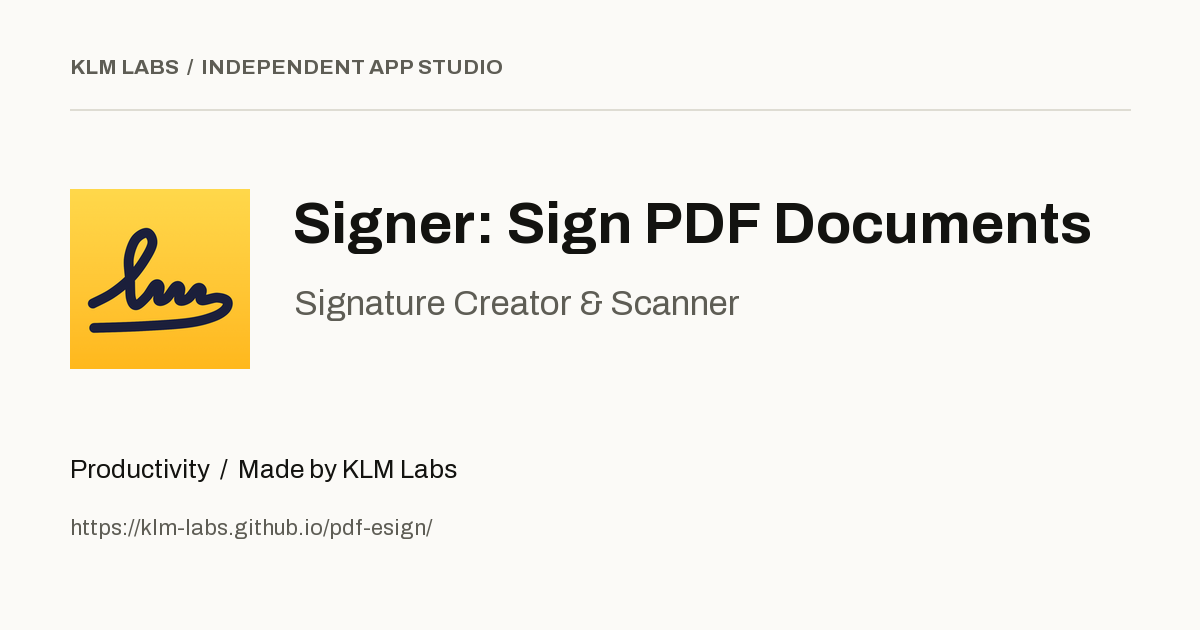
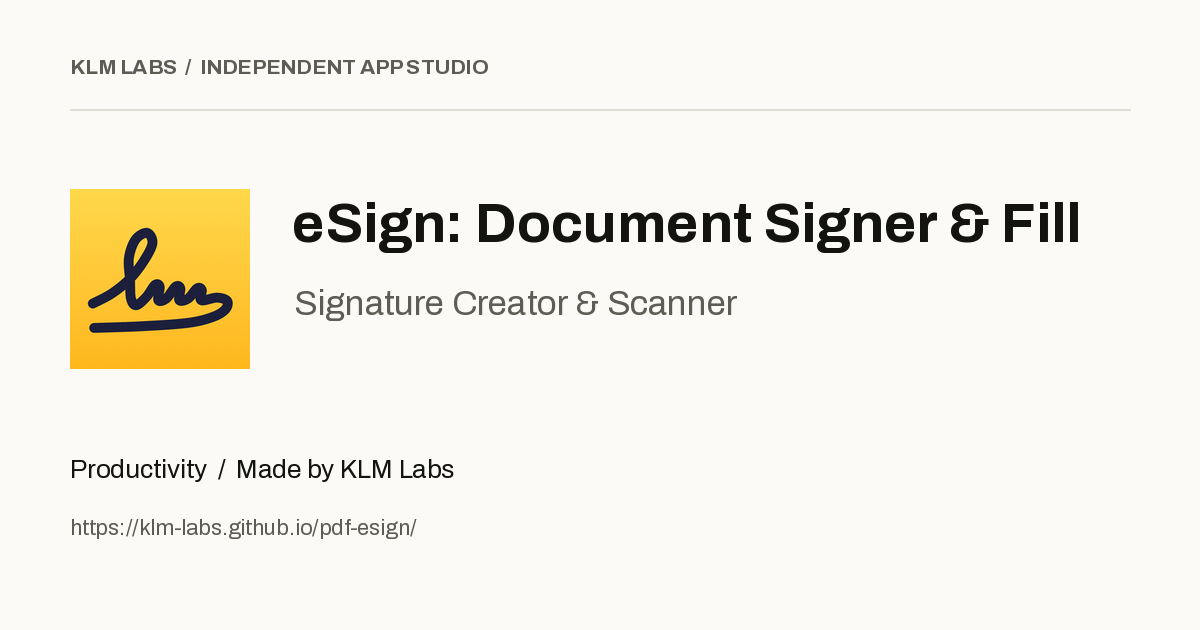
Signer: store name is now "eSign: Document Signer & Fill" (App Store 1.1.0, 2026-10-28)
Sources (data/apps/pdf-esign.json, content/pdf-esign/*.md) renamed, pages and social image rebuilt
with scripts/build.py; check.py PASS. Routes unchanged.

Claude-Session: https://claude.ai/code/session_01Sj7raKZCJBL7sNVHsKc3wx

diff --git a/pdf-esign/privacy/index.html b/pdf-esign/privacy/index.html
@@ -4,26 +4,26 @@
 <head>
   <meta charset="utf-8">
   <meta name="viewport" content="width=device-width, initial-scale=1">
-  <title>Signer: Sign PDF Documents — Privacy policy | KLM Labs</title>
-  <meta name="description" content="Signer: Sign PDF Documents: What stays on your device, what is collected, and how to get in touch.">
+  <title>eSign: Document Signer &amp; Fill — Privacy policy | KLM Labs</title>
+  <meta name="description" content="eSign: Document Signer &amp; Fill: What stays on your device, what is collected, and how to get in touch.">
   <meta name="theme-color" content="#fbfaf7">
   <link rel="canonical" href="https://klm-labs.github.io/pdf-esign/privacy/">
   <link rel="icon" href="/pdf-esign/favicon.png" type="image/png">
   <link rel="apple-touch-icon" href="/pdf-esign/icon.png">
   <meta property="og:type" content="website">
   <meta property="og:site_name" content="KLM Labs">
-  <meta property="og:title" content="Signer: Sign PDF Documents — Privacy policy | KLM Labs">
-  <meta property="og:description" content="Signer: Sign PDF Documents: What stays on your device, what is collected, and how to get in touch.">
+  <meta property="og:title" content="eSign: Document Signer &amp; Fill — Privacy policy | KLM Labs">
+  <meta property="og:description" content="eSign: Document Signer &amp; Fill: What stays on your device, what is collected, and how to get in touch.">
   <meta property="og:url" content="https://klm-labs.github.io/pdf-esign/privacy/">
   <meta property="og:image" content="https://klm-labs.github.io/pdf-esign/social.png">
   <meta property="og:image:width" content="1200">
   <meta property="og:image:height" content="630">
-  <meta property="og:image:alt" content="Signer: Sign PDF Documents — Signature Creator &amp; Scanner">
+  <meta property="og:image:alt" content="eSign: Document Signer &amp; Fill — Signature Creator &amp; Scanner">
   <meta name="twitter:card" content="summary_large_image">
-  <meta name="twitter:title" content="Signer: Sign PDF Documents — Privacy policy | KLM Labs">
-  <meta name="twitter:description" content="Signer: Sign PDF Documents: What stays on your device, what is collected, and how to get in touch.">
+  <meta name="twitter:title" content="eSign: Document Signer &amp; Fill — Privacy policy | KLM Labs">
+  <meta name="twitter:description" content="eSign: Document Signer &amp; Fill: What stays on your device, what is collected, and how to get in touch.">
   <meta name="twitter:image" content="https://klm-labs.github.io/pdf-esign/social.png">
-  <meta name="twitter:image:alt" content="Signer: Sign PDF Documents — Signature Creator &amp; Scanner">
+  <meta name="twitter:image:alt" content="eSign: Document Signer &amp; Fill — Signature Creator &amp; Scanner">
   <link rel="preload" href="/assets/fonts/archivo-regular.woff2" as="font" type="font/woff2" crossorigin>
   <link rel="stylesheet" href="/assets/site.css?v=3e96cfd2f7">
   <script src="/assets/site.js?v=3771640155" defer></script>
@@ -38,12 +38,12 @@
     </div>
   </header>
   <main id="main" class="container document-page">
-  <nav class="breadcrumb" aria-label="Breadcrumb"><a href="/">Our apps</a><span aria-hidden="true">/</span><a href="/pdf-esign/">Signer: Sign PDF Documents</a><span aria-hidden="true">/</span><span>Privacy policy</span></nav>
+  <nav class="breadcrumb" aria-label="Breadcrumb"><a href="/">Our apps</a><span aria-hidden="true">/</span><a href="/pdf-esign/">eSign: Document Signer &amp; Fill</a><span aria-hidden="true">/</span><span>Privacy policy</span></nav>
   <div class="document-grid">
-    <aside class="document-sidebar" aria-label="App resources"><a class="document-app" href="/pdf-esign/"><img src="/pdf-esign/icon.png" alt="" width="48" height="48"><span>Signer: Sign PDF Documents<small>by KLM Labs</small></span></a><nav aria-label="App resources"><a href="/pdf-esign/privacy/" aria-current="page">Privacy policy</a><a href="/pdf-esign/terms/">Terms of use</a><a href="/pdf-esign/support/">App support</a></nav><a class="text-link back-to-app" href="/pdf-esign/"><svg class="icon" width="24" height="24" viewBox="0 0 24 24" fill="none" stroke="currentColor" stroke-width="1.5" stroke-linecap="round" stroke-linejoin="round" aria-hidden="true"><path d="M20 12H4m6-6-6 6 6 6"/></svg> Back to the app</a></aside>
-    <article class="document-content"><header class="document-header"><p class="eyebrow">Signer: Sign PDF Documents</p><h1>Privacy policy</h1><p class="document-deck">What stays on your device, what is collected, and how to get in touch.</p></header><div class="prose"><p><strong>Effective date:</strong> 2026-10-21</p>
+    <aside class="document-sidebar" aria-label="App resources"><a class="document-app" href="/pdf-esign/"><img src="/pdf-esign/icon.png" alt="" width="48" height="48"><span>eSign: Document Signer &amp; Fill<small>by KLM Labs</small></span></a><nav aria-label="App resources"><a href="/pdf-esign/privacy/" aria-current="page">Privacy policy</a><a href="/pdf-esign/terms/">Terms of use</a><a href="/pdf-esign/support/">App support</a></nav><a class="text-link back-to-app" href="/pdf-esign/"><svg class="icon" width="24" height="24" viewBox="0 0 24 24" fill="none" stroke="currentColor" stroke-width="1.5" stroke-linecap="round" stroke-linejoin="round" aria-hidden="true"><path d="M20 12H4m6-6-6 6 6 6"/></svg> Back to the app</a></aside>
+    <article class="document-content"><header class="document-header"><p class="eyebrow">eSign: Document Signer &amp; Fill</p><h1>Privacy policy</h1><p class="document-deck">What stays on your device, what is collected, and how to get in touch.</p></header><div class="prose"><p><strong>Effective date:</strong> 2026-10-21</p>
 <p><strong>Contact:</strong> <a href="mailto:klm.labs.inc@gmail.com">klm.labs.inc@gmail.com</a></p>
-<p>Signer: Sign PDF Documents is made by KLM Labs. On your Home Screen it appears as <strong>Signer</strong>. It lets you sign, fill and stamp PDFs and scanned pages on your iPhone or iPad. This policy explains what stays on your device, what leaves it, who receives it and why.</p>
+<p>eSign: Document Signer &amp; Fill is made by KLM Labs. On your Home Screen it appears as <strong>Signer</strong>. It lets you sign, fill and stamp PDFs and scanned pages on your iPhone or iPad. This policy explains what stays on your device, what leaves it, who receives it and why.</p>
 <h2 id="the-short-version">The short version</h2>
 <ul><li><strong>Your documents are stored on your device.</strong> PDFs, scans, photos you import, your signatures and initials, and the text, dates and stamps you add are stored on your device. The app never uploads them to us or to anyone else, and screen recordings hide them (see below).</li><li><strong>There is no account and no sign-up.</strong> The app never asks for your name or email address. Your usage and purchase records are kept together by random identifiers, so they are linked to you (see below).</li><li><strong>Usage analytics with a random identifier.</strong> The App Store version sends usage events, such as &quot;a document was added&quot;, to PostHog, together with technical details about the app and device. An approximate location (country and city) is worked out from your internet address, which PostHog does not store. No event ever includes a document, file name, signature or text you type.</li><li><strong>Masked screen recordings, from version 1.1.0.</strong> The App Store version also records the app&#x27;s screens as you use them and where your touches start and end. Recordings are made only on iOS and iPadOS 26 or newer; on an older version the app records nothing. By design, all text, pages, signatures, initials, stamps and photos are covered by solid blocks on your iPhone or iPad before a recording is sent (our test recordings show this; see below), and recording pauses while Photos, Files, the share sheet or a touch-and-hold menu is open (see below).</li><li><strong>Purchases are handled by Apple.</strong> We never see your card or bank details. RevenueCat receives your App Store purchase records so the app can unlock and restore Signer Pro.</li><li><strong>No ads and no tracking.</strong> We do not sell data, show adverts, use an advertising identifier, or track you across other apps and websites.</li></ul>
 <h2 id="what-is-stored-on-your-device">What is stored on your device</h2>

diff --git a/pdf-esign/terms/index.html b/pdf-esign/terms/index.html
@@ -4,26 +4,26 @@
 <head>
   <meta charset="utf-8">
   <meta name="viewport" content="width=device-width, initial-scale=1">
-  <title>Signer: Sign PDF Documents — Terms of use | KLM Labs</title>
-  <meta name="description" content="Signer: Sign PDF Documents: The terms that apply when you use the app.">
+  <title>eSign: Document Signer &amp; Fill — Terms of use | KLM Labs</title>
+  <meta name="description" content="eSign: Document Signer &amp; Fill: The terms that apply when you use the app.">
   <meta name="theme-color" content="#fbfaf7">
   <link rel="canonical" href="https://klm-labs.github.io/pdf-esign/terms/">
   <link rel="icon" href="/pdf-esign/favicon.png" type="image/png">
   <link rel="apple-touch-icon" href="/pdf-esign/icon.png">
   <meta property="og:type" content="website">
   <meta property="og:site_name" content="KLM Labs">
-  <meta property="og:title" content="Signer: Sign PDF Documents — Terms of use | KLM Labs">
-  <meta property="og:description" content="Signer: Sign PDF Documents: The terms that apply when you use the app.">
+  <meta property="og:title" content="eSign: Document Signer &amp; Fill — Terms of use | KLM Labs">
+  <meta property="og:description" content="eSign: Document Signer &amp; Fill: The terms that apply when you use the app.">
   <meta property="og:url" content="https://klm-labs.github.io/pdf-esign/terms/">
   <meta property="og:image" content="https://klm-labs.github.io/pdf-esign/social.png">
   <meta property="og:image:width" content="1200">
   <meta property="og:image:height" content="630">
-  <meta property="og:image:alt" content="Signer: Sign PDF Documents — Signature Creator &amp; Scanner">
+  <meta property="og:image:alt" content="eSign: Document Signer &amp; Fill — Signature Creator &amp; Scanner">
   <meta name="twitter:card" content="summary_large_image">
-  <meta name="twitter:title" content="Signer: Sign PDF Documents — Terms of use | KLM Labs">
-  <meta name="twitter:description" content="Signer: Sign PDF Documents: The terms that apply when you use the app.">
+  <meta name="twitter:title" content="eSign: Document Signer &amp; Fill — Terms of use | KLM Labs">
+  <meta name="twitter:description" content="eSign: Document Signer &amp; Fill: The terms that apply when you use the app.">
   <meta name="twitter:image" content="https://klm-labs.github.io/pdf-esign/social.png">
-  <meta name="twitter:image:alt" content="Signer: Sign PDF Documents — Signature Creator &amp; Scanner">
+  <meta name="twitter:image:alt" content="eSign: Document Signer &amp; Fill — Signature Creator &amp; Scanner">
   <link rel="preload" href="/assets/fonts/archivo-regular.woff2" as="font" type="font/woff2" crossorigin>
   <link rel="stylesheet" href="/assets/site.css?v=3e96cfd2f7">
   <script src="/assets/site.js?v=3771640155" defer></script>
@@ -38,12 +38,12 @@
     </div>
   </header>
   <main id="main" class="container document-page">
-  <nav class="breadcrumb" aria-label="Breadcrumb"><a href="/">Our apps</a><span aria-hidden="true">/</span><a href="/pdf-esign/">Signer: Sign PDF Documents</a><span aria-hidden="true">/</span><span>Terms of use</span></nav>
+  <nav class="breadcrumb" aria-label="Breadcrumb"><a href="/">Our apps</a><span aria-hidden="true">/</span><a href="/pdf-esign/">eSign: Document Signer &amp; Fill</a><span aria-hidden="true">/</span><span>Terms of use</span></nav>
   <div class="document-grid">
-    <aside class="document-sidebar" aria-label="App resources"><a class="document-app" href="/pdf-esign/"><img src="/pdf-esign/icon.png" alt="" width="48" height="48"><span>Signer: Sign PDF Documents<small>by KLM Labs</small></span></a><nav aria-label="App resources"><a href="/pdf-esign/privacy/">Privacy policy</a><a href="/pdf-esign/terms/" aria-current="page">Terms of use</a><a href="/pdf-esign/support/">App support</a></nav><a class="text-link back-to-app" href="/pdf-esign/"><svg class="icon" width="24" height="24" viewBox="0 0 24 24" fill="none" stroke="currentColor" stroke-width="1.5" stroke-linecap="round" stroke-linejoin="round" aria-hidden="true"><path d="M20 12H4m6-6-6 6 6 6"/></svg> Back to the app</a></aside>
-    <article class="document-content"><header class="document-header"><p class="eyebrow">Signer: Sign PDF Documents</p><h1>Terms of use</h1><p class="document-deck">The terms that apply when you use the app.</p></header><div class="prose"><p><strong>Effective date:</strong> 2026-10-21</p>
+    <aside class="document-sidebar" aria-label="App resources"><a class="document-app" href="/pdf-esign/"><img src="/pdf-esign/icon.png" alt="" width="48" height="48"><span>eSign: Document Signer &amp; Fill<small>by KLM Labs</small></span></a><nav aria-label="App resources"><a href="/pdf-esign/privacy/">Privacy policy</a><a href="/pdf-esign/terms/" aria-current="page">Terms of use</a><a href="/pdf-esign/support/">App support</a></nav><a class="text-link back-to-app" href="/pdf-esign/"><svg class="icon" width="24" height="24" viewBox="0 0 24 24" fill="none" stroke="currentColor" stroke-width="1.5" stroke-linecap="round" stroke-linejoin="round" aria-hidden="true"><path d="M20 12H4m6-6-6 6 6 6"/></svg> Back to the app</a></aside>
+    <article class="document-content"><header class="document-header"><p class="eyebrow">eSign: Document Signer &amp; Fill</p><h1>Terms of use</h1><p class="document-deck">The terms that apply when you use the app.</p></header><div class="prose"><p><strong>Effective date:</strong> 2026-10-21</p>
 <p><strong>Contact:</strong> <a href="mailto:klm.labs.inc@gmail.com">klm.labs.inc@gmail.com</a></p>
-<p>Signer: Sign PDF Documents (shown on your Home Screen as Signer) is made by KLM Labs. These terms are the agreement between you and KLM Labs when you use the app. Please also read the <a href="/pdf-esign/privacy/">Privacy Policy</a>, which explains what stays on your device and what the app collects.</p>
+<p>eSign: Document Signer &amp; Fill (shown on your Home Screen as Signer) is made by KLM Labs. These terms are the agreement between you and KLM Labs when you use the app. Please also read the <a href="/pdf-esign/privacy/">Privacy Policy</a>, which explains what stays on your device and what the app collects.</p>
 <h2 id="apple-s-standard-licence-applies">Apple&#x27;s standard licence applies</h2>
 <p>The app is licensed to you under Apple&#x27;s <a href="https://www.apple.com/legal/internet-services/itunes/dev/stdeula/">Licensed Application End User License Agreement</a> (the &quot;Standard EULA&quot;), in addition to these terms. Where the two conflict on a point Apple&#x27;s licence covers, Apple&#x27;s licence governs. Purchases in the App Store are also subject to Apple&#x27;s own terms.</p>
 <h2 id="what-you-may-do-with-the-app">What you may do with the app</h2>

diff --git a/pdf-esign/support/index.html b/pdf-esign/support/index.html
@@ -4,26 +4,26 @@
 <head>
   <meta charset="utf-8">
   <meta name="viewport" content="width=device-width, initial-scale=1">
-  <title>Signer: Sign PDF Documents — App support | KLM Labs</title>
-  <meta name="description" content="Signer: Sign PDF Documents: A little help, so you can get back to work.">
+  <title>eSign: Document Signer &amp; Fill — App support | KLM Labs</title>
+  <meta name="description" content="eSign: Document Signer &amp; Fill: A little help, so you can get back to work.">
   <meta name="theme-color" content="#fbfaf7">
   <link rel="canonical" href="https://klm-labs.github.io/pdf-esign/support/">
   <link rel="icon" href="/pdf-esign/favicon.png" type="image/png">
   <link rel="apple-touch-icon" href="/pdf-esign/icon.png">
   <meta property="og:type" content="website">
   <meta property="og:site_name" content="KLM Labs">
-  <meta property="og:title" content="Signer: Sign PDF Documents — App support | KLM Labs">
-  <meta property="og:description" content="Signer: Sign PDF Documents: A little help, so you can get back to work.">
+  <meta property="og:title" content="eSign: Document Signer &amp; Fill — App support | KLM Labs">
+  <meta property="og:description" content="eSign: Document Signer &amp; Fill: A little help, so you can get back to work.">
   <meta property="og:url" content="https://klm-labs.github.io/pdf-esign/support/">
   <meta property="og:image" content="https://klm-labs.github.io/pdf-esign/social.png">
   <meta property="og:image:width" content="1200">
   <meta property="og:image:height" content="630">
-  <meta property="og:image:alt" content="Signer: Sign PDF Documents — Signature Creator &amp; Scanner">
+  <meta property="og:image:alt" content="eSign: Document Signer &amp; Fill — Signature Creator &amp; Scanner">
   <meta name="twitter:card" content="summary_large_image">
-  <meta name="twitter:title" content="Signer: Sign PDF Documents — App support | KLM Labs">
-  <meta name="twitter:description" content="Signer: Sign PDF Documents: A little help, so you can get back to work.">
+  <meta name="twitter:title" content="eSign: Document Signer &amp; Fill — App support | KLM Labs">
+  <meta name="twitter:description" content="eSign: Document Signer &amp; Fill: A little help, so you can get back to work.">
   <meta name="twitter:image" content="https://klm-labs.github.io/pdf-esign/social.png">
-  <meta name="twitter:image:alt" content="Signer: Sign PDF Documents — Signature Creator &amp; Scanner">
+  <meta name="twitter:image:alt" content="eSign: Document Signer &amp; Fill — Signature Creator &amp; Scanner">
   <link rel="preload" href="/assets/fonts/archivo-regular.woff2" as="font" type="font/woff2" crossorigin>
   <link rel="stylesheet" href="/assets/site.css?v=3e96cfd2f7">
   <script src="/assets/site.js?v=3771640155" defer></script>
@@ -38,11 +38,11 @@
     </div>
   </header>
   <main id="main" class="container document-page">
-  <nav class="breadcrumb" aria-label="Breadcrumb"><a href="/">Our apps</a><span aria-hidden="true">/</span><a href="/pdf-esign/">Signer: Sign PDF Documents</a><span aria-hidden="true">/</span><span>App support</span></nav>
+  <nav class="breadcrumb" aria-label="Breadcrumb"><a href="/">Our apps</a><span aria-hidden="true">/</span><a href="/pdf-esign/">eSign: Document Signer &amp; Fill</a><span aria-hidden="true">/</span><span>App support</span></nav>
   <div class="document-grid">
-    <aside class="document-sidebar" aria-label="App resources"><a class="document-app" href="/pdf-esign/"><img src="/pdf-esign/icon.png" alt="" width="48" height="48"><span>Signer: Sign PDF Documents<small>by KLM Labs</small></span></a><nav aria-label="App resources"><a href="/pdf-esign/privacy/">Privacy policy</a><a href="/pdf-esign/terms/">Terms of use</a><a href="/pdf-esign/support/" aria-current="page">App support</a></nav><a class="text-link back-to-app" href="/pdf-esign/"><svg class="icon" width="24" height="24" viewBox="0 0 24 24" fill="none" stroke="currentColor" stroke-width="1.5" stroke-linecap="round" stroke-linejoin="round" aria-hidden="true"><path d="M20 12H4m6-6-6 6 6 6"/></svg> Back to the app</a></aside>
-    <article class="document-content"><header class="document-header"><p class="eyebrow">Signer: Sign PDF Documents</p><h1>App support</h1><p class="document-deck">A little help, so you can get back to work.</p></header><div class="prose"><p><strong>Contact:</strong> <a href="mailto:klm.labs.inc@gmail.com">klm.labs.inc@gmail.com</a></p>
-<p>Signer: Sign PDF Documents (Signer on your Home Screen) lets you sign, fill and stamp PDFs on your iPhone or iPad. Import from Files, Photos or another app, or scan paper with the camera; add your signature, initials, text, dates, check marks and stamps; then share or save the signed copy. Email us any time; we aim to reply within three business days.</p>
+    <aside class="document-sidebar" aria-label="App resources"><a class="document-app" href="/pdf-esign/"><img src="/pdf-esign/icon.png" alt="" width="48" height="48"><span>eSign: Document Signer &amp; Fill<small>by KLM Labs</small></span></a><nav aria-label="App resources"><a href="/pdf-esign/privacy/">Privacy policy</a><a href="/pdf-esign/terms/">Terms of use</a><a href="/pdf-esign/support/" aria-current="page">App support</a></nav><a class="text-link back-to-app" href="/pdf-esign/"><svg class="icon" width="24" height="24" viewBox="0 0 24 24" fill="none" stroke="currentColor" stroke-width="1.5" stroke-linecap="round" stroke-linejoin="round" aria-hidden="true"><path d="M20 12H4m6-6-6 6 6 6"/></svg> Back to the app</a></aside>
+    <article class="document-content"><header class="document-header"><p class="eyebrow">eSign: Document Signer &amp; Fill</p><h1>App support</h1><p class="document-deck">A little help, so you can get back to work.</p></header><div class="prose"><p><strong>Contact:</strong> <a href="mailto:klm.labs.inc@gmail.com">klm.labs.inc@gmail.com</a></p>
+<p>eSign: Document Signer &amp; Fill (Signer on your Home Screen) lets you sign, fill and stamp PDFs on your iPhone or iPad. Import from Files, Photos or another app, or scan paper with the camera; add your signature, initials, text, dates, check marks and stamps; then share or save the signed copy. Email us any time; we aim to reply within three business days.</p>
 <h2 id="common-questions">Common questions</h2>
 <h3 id="do-i-need-an-account-or-an-internet-connection">Do I need an account or an internet connection?</h3>
 <p>No account and no sign-up. Your documents and signatures are stored on your device and are never uploaded by the app. Buying Signer Pro and restoring a purchase need an internet connection.</p>

diff --git a/pdf-esign/index.html b/pdf-esign/index.html
@@ -4,7 +4,7 @@
 <head>
   <meta charset="utf-8">
   <meta name="viewport" content="width=device-width, initial-scale=1">
-  <title>Signer: Sign PDF Documents — Privacy, terms and support | KLM Labs</title>
+  <title>eSign: Document Signer &amp; Fill — Privacy, terms and support | KLM Labs</title>
   <meta name="description" content="Sign PDFs on your iPhone: place your signature or initials, fill in text, dates and checkmarks, scan paper, and share the signed PDF. It appears on your Home Screen as Signer.">
   <meta name="theme-color" content="#fbfaf7">
   <link rel="canonical" href="https://klm-labs.github.io/pdf-esign/">
@@ -12,18 +12,18 @@
   <link rel="apple-touch-icon" href="/pdf-esign/icon.png">
   <meta property="og:type" content="website">
   <meta property="og:site_name" content="KLM Labs">
-  <meta property="og:title" content="Signer: Sign PDF Documents — Privacy, terms and support | KLM Labs">
+  <meta property="og:title" content="eSign: Document Signer &amp; Fill — Privacy, terms and support | KLM Labs">
   <meta property="og:description" content="Sign PDFs on your iPhone: place your signature or initials, fill in text, dates and checkmarks, scan paper, and share the signed PDF. It appears on your Home Screen as Signer.">
   <meta property="og:url" content="https://klm-labs.github.io/pdf-esign/">
   <meta property="og:image" content="https://klm-labs.github.io/pdf-esign/social.png">
   <meta property="og:image:width" content="1200">
   <meta property="og:image:height" content="630">
-  <meta property="og:image:alt" content="Signer: Sign PDF Documents — Signature Creator &amp; Scanner">
+  <meta property="og:image:alt" content="eSign: Document Signer &amp; Fill — Signature Creator &amp; Scanner">
   <meta name="twitter:card" content="summary_large_image">
-  <meta name="twitter:title" content="Signer: Sign PDF Documents — Privacy, terms and support | KLM Labs">
+  <meta name="twitter:title" content="eSign: Document Signer &amp; Fill — Privacy, terms and support | KLM Labs">
   <meta name="twitter:description" content="Sign PDFs on your iPhone: place your signature or initials, fill in text, dates and checkmarks, scan paper, and share the signed PDF. It appears on your Home Screen as Signer.">
   <meta name="twitter:image" content="https://klm-labs.github.io/pdf-esign/social.png">
-  <meta name="twitter:image:alt" content="Signer: Sign PDF Documents — Signature Creator &amp; Scanner">
+  <meta name="twitter:image:alt" content="eSign: Document Signer &amp; Fill — Signature Creator &amp; Scanner">
   <link rel="preload" href="/assets/fonts/archivo-regular.woff2" as="font" type="font/woff2" crossorigin>
   <link rel="stylesheet" href="/assets/site.css?v=3e96cfd2f7">
   <script src="/assets/site.js?v=3771640155" defer></script>
@@ -38,10 +38,10 @@
     </div>
   </header>
   <main id="main" class="container document-page">
-  <nav class="breadcrumb" aria-label="Breadcrumb"><a href="/">Our apps</a><span aria-hidden="true">/</span><span>Signer: Sign PDF Documents</span></nav>
+  <nav class="breadcrumb" aria-label="Breadcrumb"><a href="/">Our apps</a><span aria-hidden="true">/</span><span>eSign: Document Signer &amp; Fill</span></nav>
   <div class="document-grid">
-    <aside class="document-sidebar" aria-label="App resources"><a class="document-app" href="/pdf-esign/" aria-current="page"><img src="/pdf-esign/icon.png" alt="" width="48" height="48"><span>Signer: Sign PDF Documents<small>by KLM Labs</small></span></a><nav aria-label="App resources"><a href="/pdf-esign/privacy/">Privacy policy</a><a href="/pdf-esign/terms/">Terms of use</a><a href="/pdf-esign/support/">App support</a></nav></aside>
-    <article class="document-content"><header class="document-header"><p class="eyebrow">Productivity · by KLM Labs</p><h1>Signer: Sign PDF Documents</h1><p class="document-deck">Sign PDFs on your iPhone: place your signature or initials, fill in text, dates and checkmarks, scan paper, and share the signed PDF. It appears on your Home Screen as Signer.</p></header><div class="prose"><p>In beta testing on TestFlight. Coming soon to the App Store for iPhone.</p>
+    <aside class="document-sidebar" aria-label="App resources"><a class="document-app" href="/pdf-esign/" aria-current="page"><img src="/pdf-esign/icon.png" alt="" width="48" height="48"><span>eSign: Document Signer &amp; Fill<small>by KLM Labs</small></span></a><nav aria-label="App resources"><a href="/pdf-esign/privacy/">Privacy policy</a><a href="/pdf-esign/terms/">Terms of use</a><a href="/pdf-esign/support/">App support</a></nav></aside>
+    <article class="document-content"><header class="document-header"><p class="eyebrow">Productivity · by KLM Labs</p><h1>eSign: Document Signer &amp; Fill</h1><p class="document-deck">Sign PDFs on your iPhone: place your signature or initials, fill in text, dates and checkmarks, scan paper, and share the signed PDF. It appears on your Home Screen as Signer.</p></header><div class="prose"><p>In beta testing on TestFlight. Coming soon to the App Store for iPhone.</p>
 <h2 id="privacy-terms-and-support">Privacy, terms and support</h2>
 <ul><li><a href="/pdf-esign/privacy/">Privacy policy</a>: What stays on your device, what is collected, and how to get in touch.</li><li><a href="/pdf-esign/terms/">Terms of use</a>: The terms that apply when you use the app.</li><li><a href="/pdf-esign/support/">App support</a>: A little help, so you can get back to work.</li></ul>
 <p>Questions or problems? Email <a href="mailto:klm.labs.inc@gmail.com">klm.labs.inc@gmail.com</a>.</p></div></article>

diff --git a/content/pdf-esign/support.md b/content/pdf-esign/support.md
@@ -1,8 +1,8 @@
-# Signer: Sign PDF Documents Support
+# eSign: Document Signer & Fill Support
 
 **Contact:** [klm.labs.inc@gmail.com](mailto:klm.labs.inc@gmail.com)
 
-Signer: Sign PDF Documents (Signer on your Home Screen) lets you sign, fill and stamp PDFs on your iPhone or iPad. Import from Files, Photos or another app, or scan paper with the camera; add your signature, initials, text, dates, check marks and stamps; then share or save the signed copy. Email us any time; we aim to reply within three business days.
+eSign: Document Signer & Fill (Signer on your Home Screen) lets you sign, fill and stamp PDFs on your iPhone or iPad. Import from Files, Photos or another app, or scan paper with the camera; add your signature, initials, text, dates, check marks and stamps; then share or save the signed copy. Email us any time; we aim to reply within three business days.
 
 ## Common questions
 

diff --git a/content/pdf-esign/terms.md b/content/pdf-esign/terms.md
@@ -1,10 +1,10 @@
-# Signer: Sign PDF Documents Terms of Use
+# eSign: Document Signer & Fill Terms of Use
 
 **Effective date:** 2026-10-21
 
 **Contact:** [klm.labs.inc@gmail.com](mailto:klm.labs.inc@gmail.com)
 
-Signer: Sign PDF Documents (shown on your Home Screen as Signer) is made by KLM Labs. These terms are the agreement between you and KLM Labs when you use the app. Please also read the [Privacy Policy](/pdf-esign/privacy/), which explains what stays on your device and what the app collects.
+eSign: Document Signer & Fill (shown on your Home Screen as Signer) is made by KLM Labs. These terms are the agreement between you and KLM Labs when you use the app. Please also read the [Privacy Policy](/pdf-esign/privacy/), which explains what stays on your device and what the app collects.
 
 ## Apple's standard licence applies
 

diff --git a/content/pdf-esign/privacy.md b/content/pdf-esign/privacy.md
@@ -1,10 +1,10 @@
-# Signer: Sign PDF Documents Privacy Policy
+# eSign: Document Signer & Fill Privacy Policy
 
 **Effective date:** 2026-10-21
 
 **Contact:** [klm.labs.inc@gmail.com](mailto:klm.labs.inc@gmail.com)
 
-Signer: Sign PDF Documents is made by KLM Labs. On your Home Screen it appears as **Signer**. It lets you sign, fill and stamp PDFs and scanned pages on your iPhone or iPad. This policy explains what stays on your device, what leaves it, who receives it and why.
+eSign: Document Signer & Fill is made by KLM Labs. On your Home Screen it appears as **Signer**. It lets you sign, fill and stamp PDFs and scanned pages on your iPhone or iPad. This policy explains what stays on your device, what leaves it, who receives it and why.
 
 ## The short version
 
